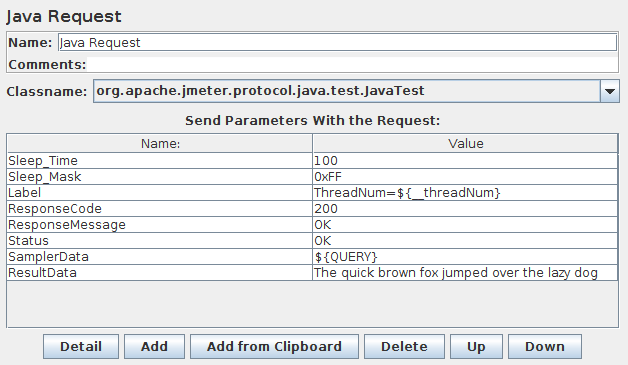
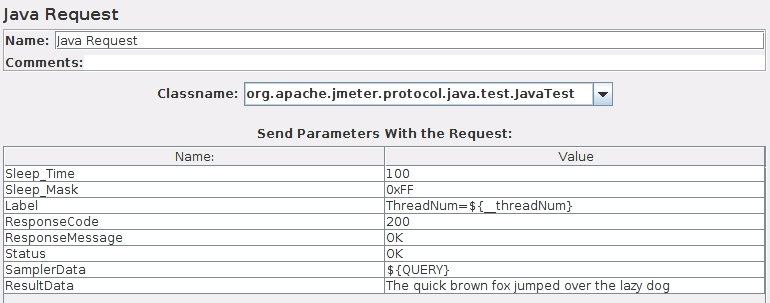
Bug 61595 Remove Detail, Add, Add from Clipboard, Delete buttons in Java Request Defaults & Java Request GUI
git-svn-id: https://svn.apache.org/repos/asf/jmeter/trunk@1811454 13f79535-47bb-0310-9956-ffa450edef68

Former-commit-id: fa421988a582eff18b36e2a58b5e3f2c6120ffaf

Changed region(s): [[0.0, 0.0297, 0.9984, 1.0]]

diff --git a/src/protocol/java/org/apache/jmeter/protocol/java/config/gui/JavaConfigGui.java b/src/protocol/java/org/apache/jmeter/protocol/java/config/gui/JavaConfigGui.java
@@ -238,7 +238,7 @@ public class JavaConfigGui extends AbstractConfigGui implements ChangeListener {
      * @return a panel containing the relevant components
      */
     private JPanel createParameterPanel() {
-        argsPanel = new ArgumentsPanel(JMeterUtils.getResString("paramtable")); // $NON-NLS-1$
+        argsPanel = new ArgumentsPanel(true,JMeterUtils.getResString("paramtable")); // $NON-NLS-1$
         return argsPanel;
     }
 
